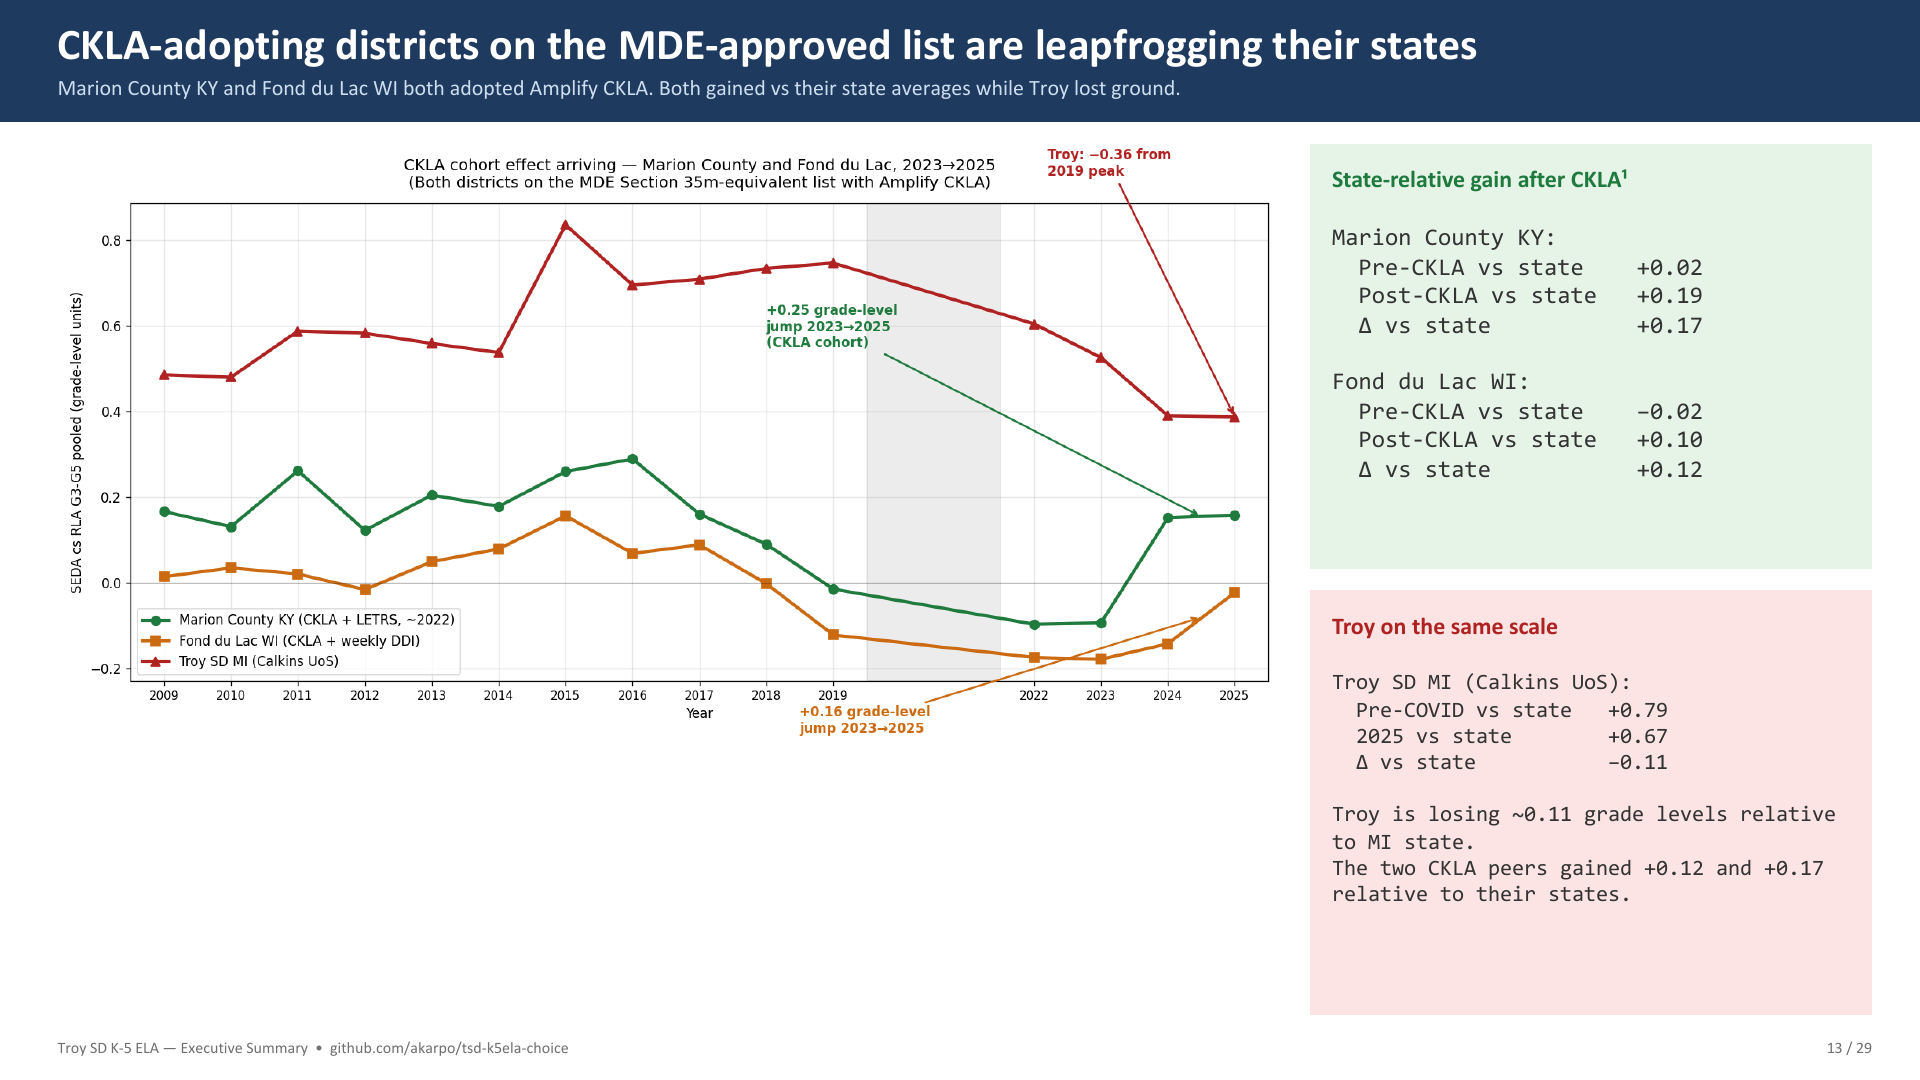
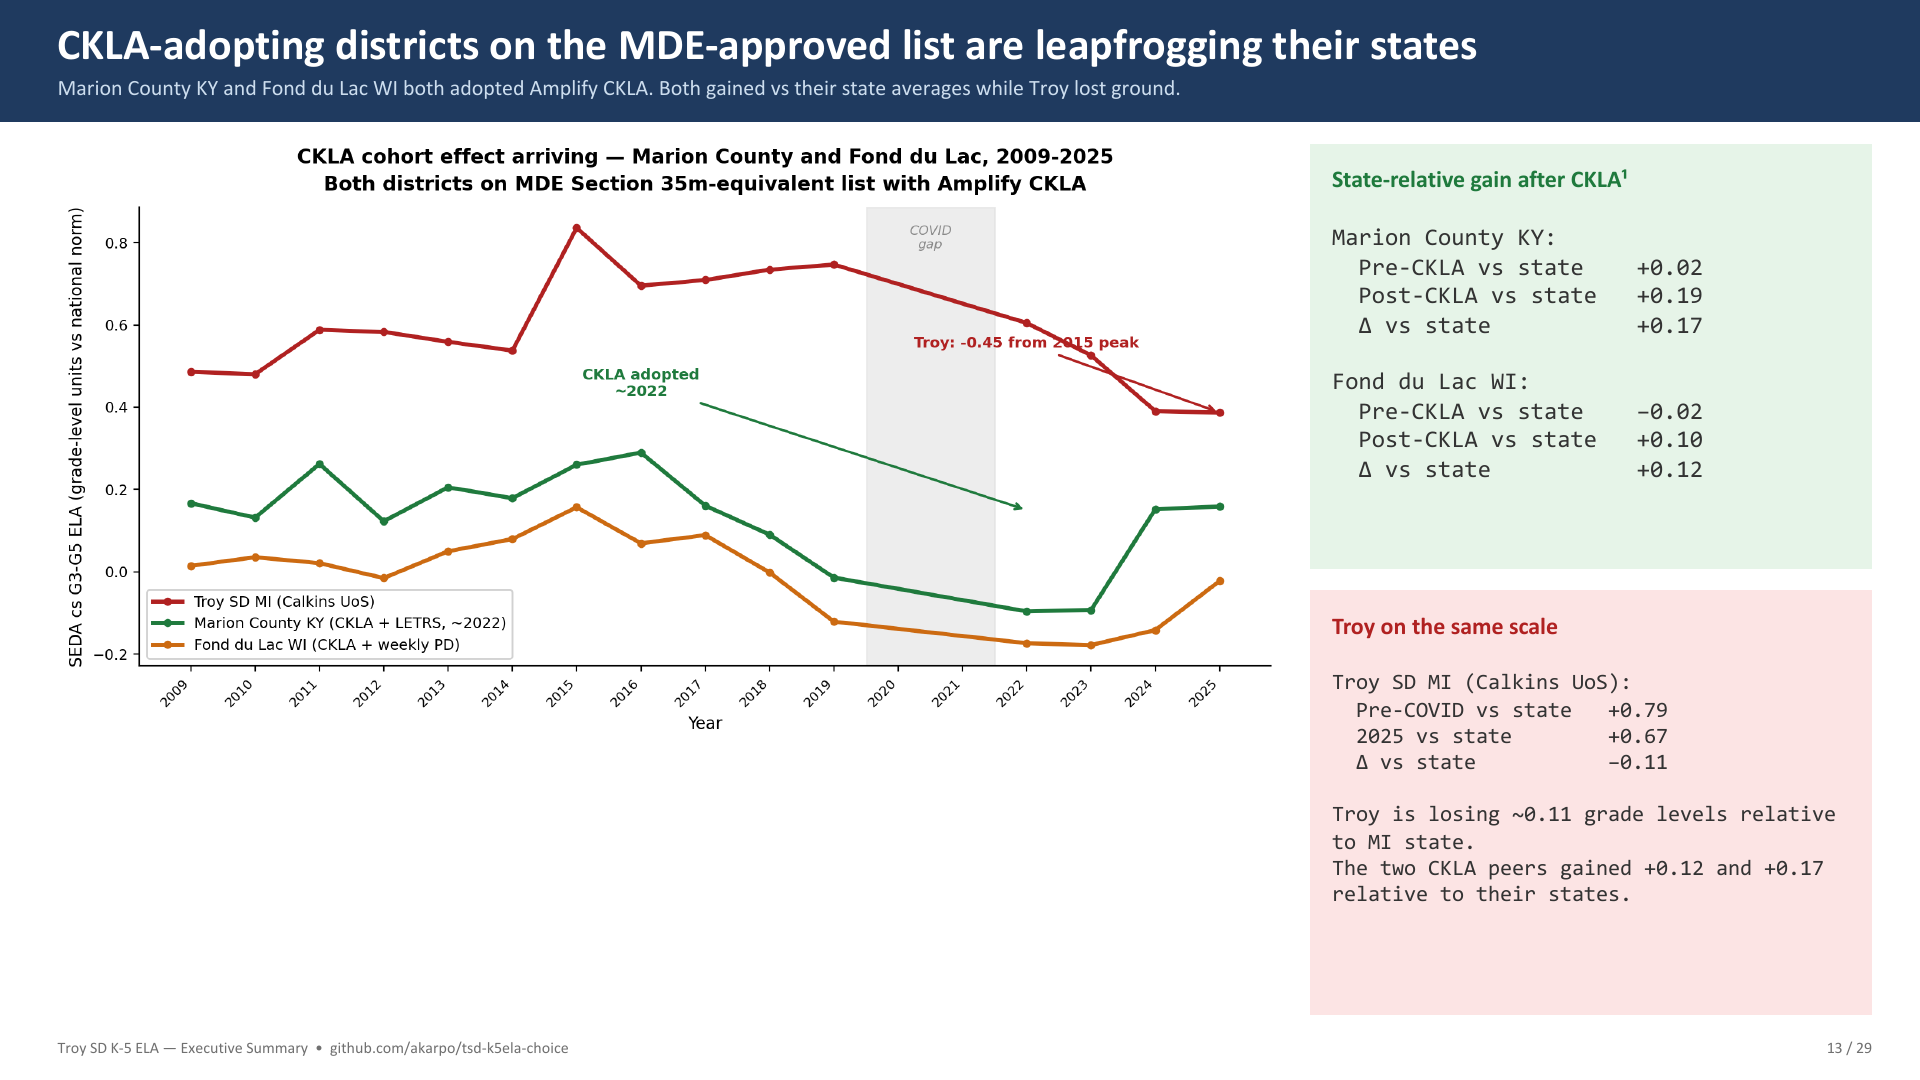
Fix slide 13 CKLA chart: remove overlapping annotation boxes
Rebuilt chart19_ckla_cohort_effect.png — replaced opaque bbox text
annotations with clean arrow-only annotations. The CKLA adoption
callout and Troy decline label now use arrows pointing to the data
instead of grey boxes sitting on top of the lines.

diff --git a/analysis/rebuild_ckla_chart.py b/analysis/rebuild_ckla_chart.py
@@ -1,0 +1,79 @@
+"""Rebuild chart19_ckla_cohort_effect.png — clean version without overlapping annotations."""
+import pandas as pd
+import matplotlib.pyplot as plt
+import numpy as np
+import os
+
+CHART_DIR = os.path.join(os.path.dirname(os.path.abspath(__file__)), '..', 'charts')
+DATA = os.path.join(os.path.dirname(os.path.abspath(__file__)), '..', 'data', 'seda_2009_2025_extract.csv')
+
+df = pd.read_csv(DATA, low_memory=False)
+df['cs_mn_all'] = pd.to_numeric(df['cs_mn_all'], errors='coerce')
+df['tot_asmt_all'] = pd.to_numeric(df['tot_asmt_all'], errors='coerce')
+
+DISTRICTS = {
+    2634260: ('Troy SD MI (Calkins UoS)', '#B02121', '-'),
+    2103780: ('Marion County KY (CKLA + LETRS, ~2022)', '#1F7A3D', '-'),
+    5504680: ('Fond du Lac WI (CKLA + weekly PD)', '#CC6A11', '-'),
+}
+
+fig, ax = plt.subplots(figsize=(10.5, 5.25))
+
+for sid, (label, color, ls) in DISTRICTS.items():
+    sub = df[(df['sedaadmin'] == sid) & (df['subject'] == 'rla') & (df['grade'].isin([3, 4, 5]))]
+    yearly = sub.groupby('year').apply(
+        lambda g: np.average(g['cs_mn_all'].dropna(), weights=g.loc[g['cs_mn_all'].notna(), 'tot_asmt_all'])
+        if g['cs_mn_all'].notna().any() else np.nan
+    ).dropna()
+    ax.plot(yearly.index, yearly.values, color=color, linestyle=ls, linewidth=2.5,
+            marker='o', markersize=4, label=label, zorder=3)
+
+# Shade COVID gap
+ax.axvspan(2019.5, 2021.5, color='#dddddd', alpha=0.5, zorder=1)
+ax.text(2020.5, ax.get_ylim()[1] * 0.95, 'COVID\ngap', ha='center', va='top',
+        fontsize=8, color='#888888', style='italic')
+
+# CKLA adoption annotation — arrow only, no overlapping box
+# Marion County adopted CKLA ~2022
+ax.annotate('CKLA adopted\n~2022',
+            xy=(2022, 0.15), xytext=(2016, 0.42),
+            fontsize=9, color='#1F7A3D', fontweight='bold',
+            arrowprops=dict(arrowstyle='->', color='#1F7A3D', lw=1.5),
+            ha='center', va='bottom')
+
+# Troy peak annotation
+troy_sub = df[(df['sedaadmin'] == 2634260) & (df['subject'] == 'rla') & (df['grade'].isin([3, 4, 5]))]
+troy_yearly = troy_sub.groupby('year').apply(
+    lambda g: np.average(g['cs_mn_all'].dropna(), weights=g.loc[g['cs_mn_all'].notna(), 'tot_asmt_all'])
+    if g['cs_mn_all'].notna().any() else np.nan
+).dropna()
+peak_year = troy_yearly.idxmax()
+peak_val = troy_yearly.max()
+current_val = troy_yearly.iloc[-1] if len(troy_yearly) > 0 else 0
+decline = current_val - peak_val
+
+ax.annotate(f'Troy: {decline:+.2f} from {int(peak_year)} peak',
+            xy=(troy_yearly.index[-1], current_val),
+            xytext=(troy_yearly.index[-1] - 3, current_val + 0.15),
+            fontsize=9, color='#B02121', fontweight='bold',
+            arrowprops=dict(arrowstyle='->', color='#B02121', lw=1.5),
+            ha='center', va='bottom')
+
+ax.set_title(
+    'CKLA cohort effect arriving — Marion County and Fond du Lac, 2009-2025\n'
+    'Both districts on MDE Section 35m-equivalent list with Amplify CKLA',
+    fontsize=12, fontweight='bold', pad=10, linespacing=1.5)
+ax.set_xlabel('Year', fontsize=10)
+ax.set_ylabel('SEDA cs G3-G5 ELA (grade-level units vs national norm)', fontsize=10)
+ax.legend(loc='lower left', fontsize=9, framealpha=0.9)
+ax.spines['top'].set_visible(False)
+ax.spines['right'].set_visible(False)
+ax.tick_params(labelsize=9)
+ax.set_xticks(range(2009, 2026))
+ax.set_xticklabels([str(y) for y in range(2009, 2026)], fontsize=8, rotation=45, ha='right')
+
+plt.tight_layout()
+OUT = os.path.join(CHART_DIR, 'chart19_ckla_cohort_effect.png')
+plt.savefig(OUT, dpi=200, bbox_inches='tight', facecolor='white')
+print(f'Saved: {OUT}')
+plt.close()